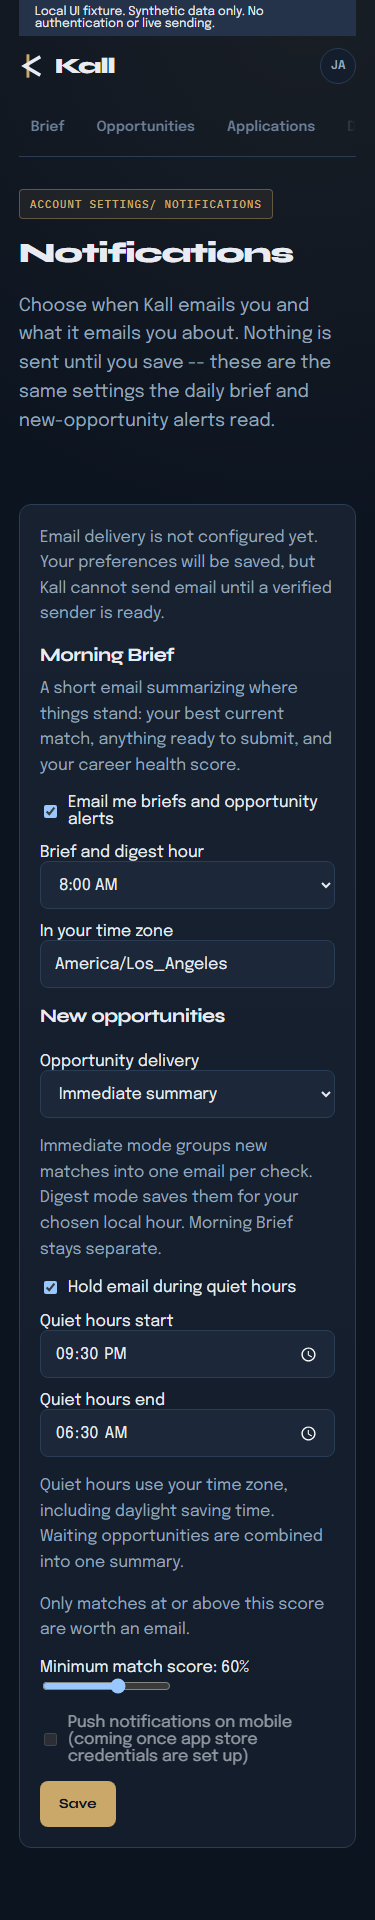
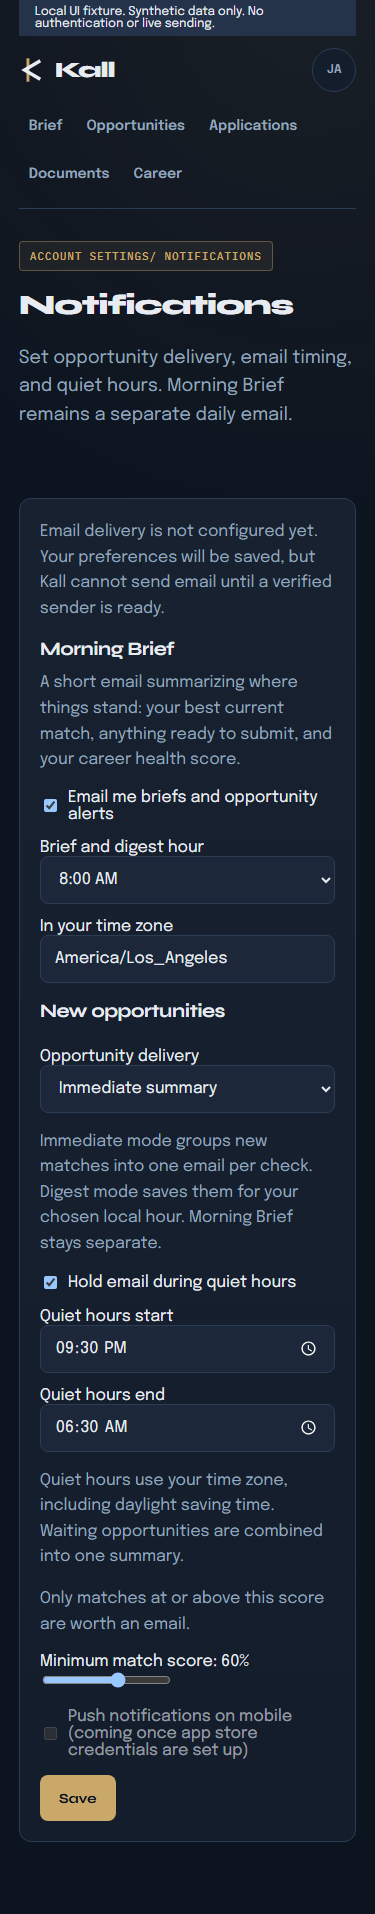
Record final combined validation and reopen identity alignment

diff --git a/docs/continuation/integration-validation.md b/docs/continuation/integration-validation.md
@@ -52,27 +52,59 @@ This file records completed checks separately from remaining release gates.
 - The identity package `473e86a` passed its image/manifest validator for all
   35 visuals and 32 browser records. Root reviewed the boards and representative
   desktop/mobile studies, then verified gallery comparison controls and JPEG
-  links after the format correction. Edition is recommended, not selected.
+  links after the format correction. The initial Edition recommendation was
+  subsequently withdrawn after James's Runestone feedback; the identity task is
+  correcting the first studies against Kall's design foundation. Visual file
+  validity does not establish alignment with the product identity.
 - Notification settings introductory copy no longer claims that default email
   delivery waits for an explicit save. Morning Brief remains separately described.
 
+## Monitoring integration checkpoint
+
+- All three monitoring commits are integrated. The delivery merge retained the
+  escaped reference renderer verbatim and the five black-box legacy eligibility
+  tests, while using the new common opportunity-eligibility service. Stable job
+  identity and current canonical-candidate validation remain intact.
+- The first complete combined backend run passed **495 tests**. The subsequent
+  department/team metadata fingerprint fix passed **47 focused regressions**
+  across monitoring, opportunities, discovery refresh, digest and reference mail.
+  The final full backend run then passed **496 tests** in 69.39 seconds.
+- Full Ruff, Python compilation, disabled-template `cfn-lint` and offline
+  preparation checks passed. The retained local revision-27 database upgraded
+  successfully to `20260830_0028`; full tests also cover fresh migration and
+  downgrade/re-upgrade preservation of the existing weekday schedule.
+- Root independently ran the integrated controlled benchmark with temporary
+  SQLite, synthetic feeds and disabled sender: ten requests per tick across five
+  profiles and ten shared boards, zero activation/unchanged alerts, then 100
+  private events for ten new and ten changed postings. Wall times were 36.105,
+  0.598 and 6.022 seconds. See [integrated measurement](monitoring-benchmark-integrated.json).
+  These unconstrained local timings are not a Fargate or PostgreSQL result.
+- The complete planning worksheet totals $7.90/month under its stated runtime,
+  email-volume, routing and storage assumptions. Root checked its arithmetic and
+  the cited AWS billing terms. It is not measured production cost or a guarantee.
+- The final production web build passed with a synthetic publishable test key
+  and no live authentication. All **36 combined browser cases** passed in 1.5
+  minutes at 1440px and 375px, covering current flows, targeting and monitoring.
+  All four integrated monitoring screenshots were visually inspected and copied
+  over the earlier lane captures; they now include the final navigation and
+  corrected notification introduction. Monitoring panels are element crops;
+  notification captures are full-page true PNGs. Existing CSS warnings remain.
+- The 16 mocked Clerk cleanup-safety tests and TypeScript checking passed.
+
 ## Required before the combined implementation is ready
 
-- Integrate final monitoring and notification patches, then rerun the full
-  backend suite under the normal local test configuration.
-- Validate new migrations both on a fresh database and the pre-monitoring
-  schema, preserving existing schedules and workflow states.
-- Run controlled-feed monitoring and notification tests with the sender
-  disabled. Cover concurrency, expired leases, resume fairness, changed and
-  unchanged postings, cross-user isolation, preferences, DST and provider errors.
-- Measure runtime and request volume, and record a complete incremental cost
-  estimate including network addresses, egress, logs, storage and email.
-- Build the combined web app and run relevant browser regressions. Inspect real
-  screenshots at desktop and 375px widths. Fixture tests do not verify Clerk,
-  live provider integration, deployed behavior, or inbox delivery.
-- Obtain a selected identity direction and page hierarchy before any production
-  brand or broader navigation migration. The review package is complete and this
-  decision does not block functional repairs.
+- Obtain the combined branch's required CI results. PR #169's green CI is
+  separate evidence from the completed local integration checks.
+- Before pilot activation, validate PostgreSQL transactions and migrations on a
+  disposable database, and constrain the actual image to 0.25 vCPU/0.5 GB while
+  measuring image startup, representative feeds, database latency and memory.
+  No Docker or PostgreSQL executable was found on this host's current PATH.
+- Validate every cost assumption against the selected pilot cohort and actual
+  routing; keep deployment disabled if the complete estimate exceeds $10/month.
+- Local fixture checks do not verify Clerk, live provider integration, deployed
+  behavior, or inbox delivery. Review hosted results within those limits.
+- Correct the identity exploration against Runestone feedback before requesting
+  a selected direction or page hierarchy. This does not block functional repairs.
 
 ## Deployment boundary
 

diff --git a/docs/continuation/README.md b/docs/continuation/README.md
@@ -8,9 +8,9 @@ tracks ownership and evidence; task creation does not mean implementation is don
 | Kall integration and delivery | 01a0546e-37c4-78a3-8731-d26b2350af10 | Integration, shared QA safety, release checks | In progress |
 | Kall: reference reminders and PR 169 | 01a054aa-6150-70d3-a45e-67bc3f95ffc0 | Dry run, reference email, regression tests | Repaired, integrated, PR updated; five required checks passed |
 | Kall: functional areas and feature audit | 01a054aa-8757-7a02-bf5d-061725f9efa7 | Profile preservation, functional areas, current matching | Integrated; combined validation in progress |
-| Kall: continuous monitoring and notifications | 01a054aa-a6a0-70d3-b8e8-d6fbf3a4ae8d | Shared feeds, monitoring, durable alerts, disabled deployment | In progress |
+| Kall: continuous monitoring and notifications | 01a054aa-a6a0-70d3-b8e8-d6fbf3a4ae8d | Shared feeds, monitoring, durable alerts, disabled deployment | Integrated; final combined checks running, pilot disabled |
 | Kall: user-flow polish and accessibility | 01a054aa-c624-7b52-ae4f-de9ab36af8c9 | Current-flow fixes, responsive and fixture browser QA | Integrated; 30 combined UI/targeting browser cases passed |
-| Kall: identity exploration and storyboard | 01a054aa-efc7-76d3-a952-33aa44a344b5 | Three unapproved visual directions and migration proposal | Integrated; Edition recommended, selection pending |
+| Kall: identity exploration and storyboard | 01a054aa-efc7-76d3-a952-33aa44a344b5 | Three unapproved visual directions and migration proposal | Reopened after Runestone feedback; Edition recommendation withdrawn |
 
 ## Integration order
 
@@ -70,6 +70,12 @@ commits and validation evidence before integration is considered complete.
   [current-flow evidence](usability.md), including the isolated browser harness.
 - `edfecf3` from the identity task is integrated as `473e86a`. See the
   [review gallery](../../design/identity-exploration/index.html) and
-  [page migration proposal](identity-storyboard.md). Production identity is unchanged.
+  [page migration proposal](identity-storyboard.md). The first studies remain
+  historical, unapproved candidates. James's Runestone feedback reopened this
+  lane: the Edition recommendation is withdrawn pending alignment with Kall's
+  dark Nordic and carved-rune design foundation. Production identity is unchanged.
+- Monitoring `8a363ac`, metadata refresh `1fb404e` and UI `6fcf409` are integrated
+  as `e5938d9`, `8575362` and `f56117d`. See [monitoring](monitoring.md) for
+  behavior, controlled benchmarks, the conditional cost worksheet and activation gates.
 - [Combined validation](integration-validation.md) distinguishes completed checks
   from remaining implementation and deployment gates.
